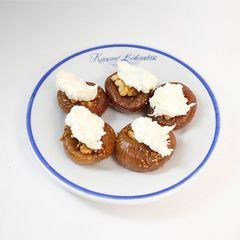
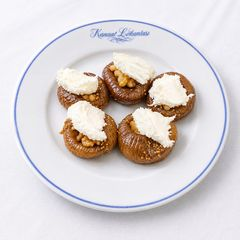
Sürüm 128: karnıyarık, su muhallebisi ve kaymaklı incir tatlısı fotoğrafları yenilendi, ses.txt eklendi
Claude-Session: https://claude.ai/code/session_01MnFcxHf5wCUMMNWreRuoPf

diff --git a/menu/index.html b/menu/index.html
@@ -370,7 +370,7 @@ body.searching #menu{min-height:100vh}
     <p><a href="https://maps.google.com/?q=Kanaat+Lokantas%C4%B1+Selmanipak+Cad.+No:9+%C3%9Csk%C3%BCdar+%C4%B0stanbul" target="_blank" rel="noopener">Selmanipak Cad. No:9, Üsküdar, İstanbul</a></p>
     <p><a href="tel:+902163415444" dir="ltr">+90 216 341 54 44</a></p>
     <p><a class="igfoot" href="https://www.instagram.com/kanaatlokantasi1933/" target="_blank" rel="noopener" dir="ltr"><svg viewBox="0 0 24 24" width="16" height="16" fill="none" stroke="currentColor" stroke-width="2" aria-hidden="true"><rect x="3" y="3" width="18" height="18" rx="5"/><circle cx="12" cy="12" r="4"/><circle cx="17.5" cy="6.5" r="1" fill="currentColor"/></svg>@kanaatlokantasi1933</a></p>
-    <p class="ver" dir="ltr">Sürüm 127 · 27.11.2026</p>
+    <p class="ver" dir="ltr">Sürüm 128 · 28.11.2026</p>
   </div>
 </footer>
 

diff --git a/menu/istatistik/index.html b/menu/istatistik/index.html
@@ -72,7 +72,7 @@ input,select{width:100%;font:inherit;padding:10px 12px;border:1px solid var(--li
     <div class="dates"><input type="date" id="from"> – <input type="date" id="to"></div>
     <div id="out2"><p class="empty">Yükleniyor…</p></div>
   </section>
-  <p class="ver">Kişisel veri tutulmaz: isim, telefon, IP, konum, cihaz bilgisi yok. Sayaçlar günlük toplamdır; görüşlerde sadece puan, yorum ve dil saklanır. · 127 · 27.11.2026</p>
+  <p class="ver">Kişisel veri tutulmaz: isim, telefon, IP, konum, cihaz bilgisi yok. Sayaçlar günlük toplamdır; görüşlerde sadece puan, yorum ve dil saklanır. · 128 · 28.11.2026</p>
 </main>
 <script src="https://www.gstatic.com/firebasejs/10.14.1/firebase-app-compat.js"></script>
 <script src="https://www.gstatic.com/firebasejs/10.14.1/firebase-auth-compat.js"></script>

diff --git a/menu/sw.js b/menu/sw.js
@@ -1,5 +1,5 @@
 // Kanaat QR Menü – çevrimdışı/yavaş internette hızlı açılma
-const V="127 · 27.11.2026";const C="kanaat-menu-v2";
+const V="128 · 28.11.2026";const C="kanaat-menu-v2";
 self.addEventListener("install",e=>{e.waitUntil(caches.open(C).then(c=>c.addAll(["./","img/logo.jpg","img/logo-lacivert.png","img/sef.jpg"]).catch(()=>{})));self.skipWaiting()});
 self.addEventListener("activate",e=>{e.waitUntil(caches.keys().then(ks=>Promise.all(ks.filter(k=>k.startsWith("kanaat-menu-")&&k!==C).map(k=>caches.delete(k)))).then(()=>self.clients.claim()))});
 const timeout=(p,ms)=>new Promise((res,rej)=>{const t=setTimeout(()=>rej(0),ms);p.then(r=>{clearTimeout(t);res(r)},x=>{clearTimeout(t);rej(x)})});

diff --git a/tools/menu-kaynak/build.py b/tools/menu-kaynak/build.py
@@ -2,7 +2,7 @@
 # (15.11.2026'da yeniden yazıldı; çıktısı v103 ile birebir doğrulandı)
 import json, zlib, hashlib, os, re, sys
 
-VERSION = "127 · 27.11.2026"
+VERSION = "128 · 28.11.2026"
 REMOTE = "https://public.takeaseat.io/restaurants/7abc0ee3-bfdc-497b-91a6-ef20a58bacec/"
 B = os.path.dirname(os.path.abspath(__file__))
 ITEMS = os.environ.get("ITEMS", os.path.join(B, "items.txt"))
